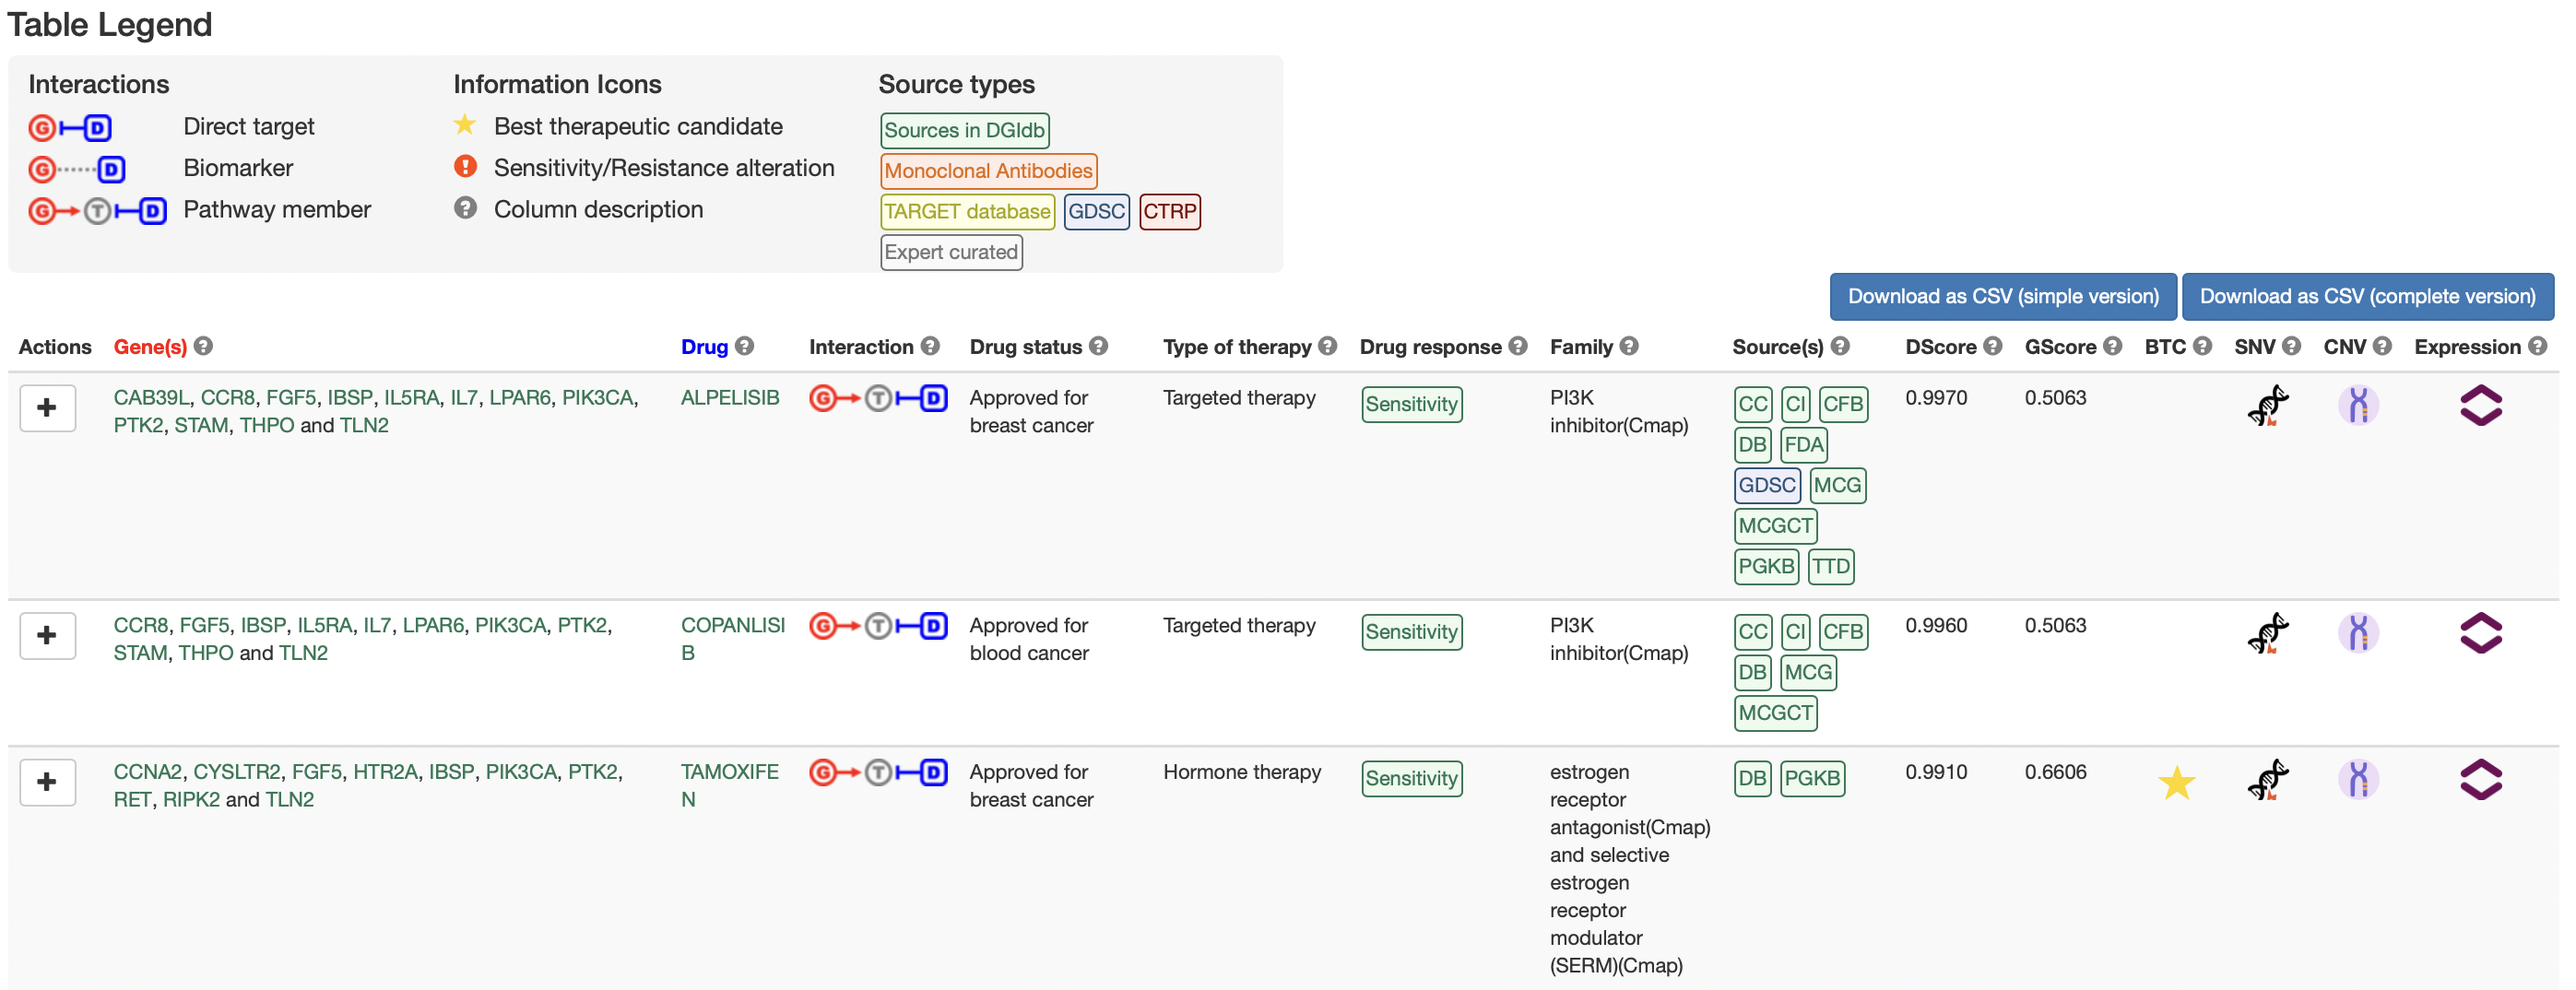
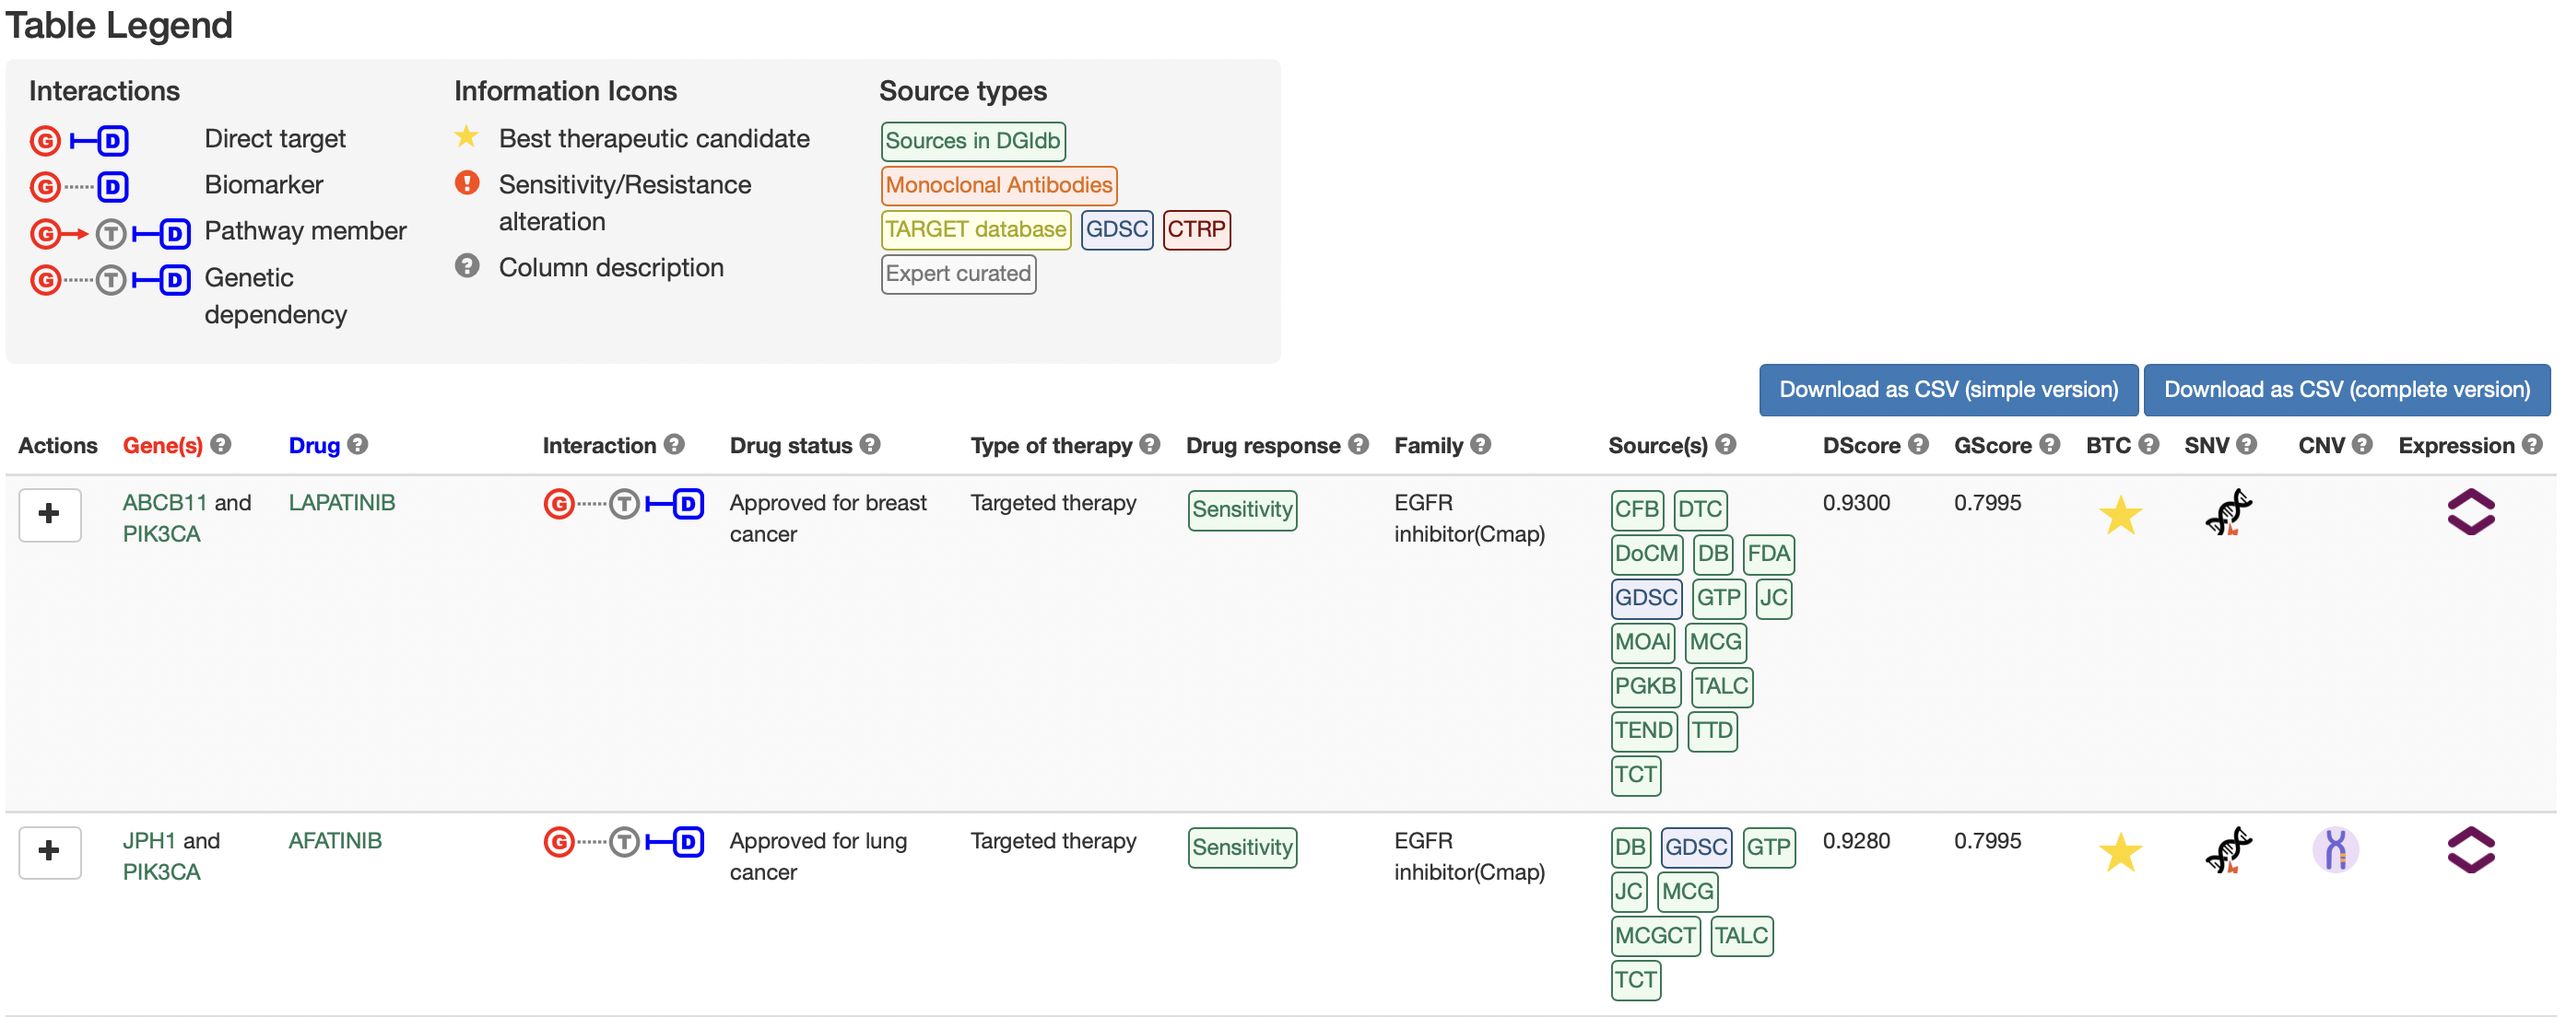
Update multi-omics with VCF

Changed region(s): [[0.0, 0.0, 1.0, 1.0], [0.0, 0.6145, 0.5625, 0.676], [0.875, 0.6145, 0.9688, 0.676]]

diff --git a/app/help/help.md b/app/help/help.md
@@ -646,55 +646,53 @@ If we expand everolimus row by clicking on the <img src="plus.png" alt="Expand I
 
 #### 6.6.2 Multi-omics Analysis with VCF<a name="examples-multi-omics-query-w-vcf"></a>
 
-[Load example for a breast invasive carcinoma patient from the TCGA.](#!/query?tab=multiomics)
+[Load example for a breast invasive ductal carcinoma patient from the TCGA.](#!/query?tab=multiomics)
 
-The VCF contains patient's somatic variants without any germline alteration, so in this example we cannot select <span style="color:#50AC50">**PharmCAT analysis**</span>.
+The VCF contains the patient's somatic variants without any germline alteration, so we cannot select <span style="color:#50AC50">**PharmCAT analysis**</span>.
 
-**Important: If you are logged in**, you will be able to select any of the VCFs that you have previously annotated. These **annotations are stored** in your personal account **up to 6 months**, so they can be queried many times. **If you are a guest user**, you can do this type of analysis **right after a [Small Variants Query](#!/help#vcf-query) with the VCF** of interest.
+**Important: If you are logged in**, you will be able to select any of the VCFs that you have previously annotated. These **annotations are stored** in your account **for up to 6 months**, so they can be queried many times. **If you are a guest user**, you can do this type of analysis **right after a [small variants query](#!/help#vcf-query) with the VCF** of interest.
 
 For the sake of this example, we will run this analysis from scratch.
 
-First, go to the Small Variants Query tab and load the VCF as indicated in section [Small Variants Analysis without PharmCAT](#!/help#examples-vcf-query-no-pharmcat). Please, **do not** click on <span style="color:#50AC50">**PharmCAT analysis**</span>.
+First, go to the small variants query tab and load the VCF as indicated in the section [Small Variants Analysis without PharmCAT](#!/help#examples-vcf-query-no-pharmcat). Please, **do not** click on <span style="color:#50AC50">**PharmCAT analysis**</span>.
+
+<div style="text-align: left;"><img src="vcf-query-example-input-01.png" alt="Multi-omics Query with VCF Input 1" height="20%" width="20%"/>
 
 <!-- Update image -->
-<div style="text-align: left;"><img src="vcf-query-example-input-01.png" alt="Multi-omics Query with VCF Input 1" height="40%" width="40%"/>
+<div style="text-align: left;"><img src="vcf-query-example-input-02.png" alt="Multi-omics Query with VCF Input 2" height="40%" width="40%"/>
 
-<div style="text-align: left;"><img src="vcf-query-example-input-02.png" alt="Multi-omics Query with VCF Input 2" height="100%" width="100%"/>
+Once the progress bar is complete, return to the multi-omics query tab.
 
-Once the progress bar is complete, return to the Multi-omics Query tab.
+Then, click on <span style="color:#50AC50">**With variant analysis**</span> and select the VCF you just annotated from the list. Also, upload both the example CNV .tsv and expression .rnk files. Keep in mind that you can choose just one of them, but we want to show you what a complete multi-omics analysis looks like.
 
-Then, click on <span style="color:#50AC50">**With variant analysis**</span> and select the VCF you just annotated from the list. Also, upload both the example CNV and expression RNK files. Keep in mind that you can choose just one of them, but we want to show you how a complete Multi-omics Analysis looks like.
+<div style="text-align: left;"><img src="multi-omics-query-example-input-02.png" alt="Multi-omics Query with VCF Input 3" height="40%" width="40%"/>
 
-<div style="text-align: left;"><img src="multi-omics-query-example-input-02.png" alt="Multi-omics Query with VCF Input 3" height="100%" width="100%"/>
-
-Finally, do not modify any of the <span style="color:#50AC50">**Analysis Options**</span> and click on the <span style="color:#50AC50">**Query**</span> button.
+Finally, **do not** modify any of the <span style="color:#50AC50">**Analysis Options**</span> and click on the <span style="color:#50AC50">**Query**</span> button.
 
 <u>**Output Interpretation**</u>
 
-In the results page, you will see a summary box with the execution details, some plots and a summary table with the drug ranking (see [Gene Names, Gene Ranking, CNVs, Small Variants and Multi-omics Query Output](#!/help#genes-gene-rank-cnvs-vcf-and-multi-omics-query-output) section for further details).
+On the results page, you will see a summary box with the execution details, some plots and a summary table with the drug ranking (see [Gene Names, Gene Ranking, CNVs, Small Variants and Multi-omics Query Output](#!/help#genes-gene-rank-cnvs-vcf-and-multi-omics-query-output) section for further details).
 
-These results can be interpreted as the ones obtained after a gene names query, but keep in mind that the GScores have been computed in two ways:
+These results can be interpreted as the ones obtained after a [gene names analysis](#!/help#examples-genes-query), but keep in mind that the GScores have been computed in two ways:
 
-- For the genes in the CNV file or the Highly Overexpressed <!--Oncogenes-->Genes found in the RNK file, the GScores are the pre-computed ones. These scores have been calculated according to gene essentiality, tumor vulnerability, relevance of the gene in cancer and its druggability level.
+- For the genes in the CNV file, the GScores are the pre-computed ones. These scores have been calculated according to gene essentiality, tumor vulnerability, relevance of the gene in cancer and its druggability level.
 
 - For the somatic variants found in the VCF, the GScores also take into account the biological impact, the frequency and the clinical implications of these variants.
 
-If a gene is found in the VCF and any other input file, the GScore computed from VScores has priority over the pre-computed GScore.
+If a gene has small variants and CNVs, the GScore computed from VScores has priority over the other GScore.
 
-PanDrugs finds several Best Therapeutic Candidates <img src="btc.png" alt="Best Therapeutic Candidate" height="20" width="20" style="vertical-align:middle;"/> based on small variant, CNV and expression evidences. Tamoxifen is, again, the drug with highest combined DScore and GScore (DScore = 0.9910; GScore = 0.6606).
+PanDrugs finds several BTCs <img src="btc.png" alt="Best Therapeutic Candidate" height="20" width="20" style="vertical-align:middle;"/> based on small variant, CNV and expression evidences. Afatinib is the drug with highest combined DScore and GScore (DScore = 0.9280; GScore = 0.7995) according to the 3 evidence sources.
 
-<div style="text-align: left;"><img src="multi-omics-query-output-03.png" alt="Multi-omics Query without VCF Summary Table Collapsed" height="100%" width="100%"/>
+<div style="text-align: left;"><img src="multi-omics-query-output-03.png" alt="Multi-omics Query without VCF Summary Table Collapsed" height="60%" width="60%"/>
 
-If we expand Tamoxifen row by clicking on the <img src="plus.png" alt="Expand Icon" height="18" width="20" style="vertical-align:middle;"/>, we will get futher information about the type of gene alterations that are contributing to PanDrugs ranking:
+If we expand afatinib row by clicking on the <img src="plus.png" alt="Expand Icon" height="18" width="20" style="vertical-align:middle;"/>, we will get further information about the type of gene alterations that are contributing to PanDrugs ranking:
 
-  - A deletion in *CYSLTR2*.
-  - A mutation in *PIK3CA*.
-  - A highly overexpressed gene such as *CCNA2*, which is a biomarker of the response to Tamoxifen.
+  - A mutation in *PIK3CA* leads to high overexpression of this gene.
+  - An amplification in *JPH1* also leads to high overexpression of this gene.
 
-<!-- Update image -->
-<div style="text-align: left;"><img src="multi-omics-query-output-04.png" alt="Multi-omics Query without VCF Summary Table Expanded" height="100%" width="100%"/>
+<div style="text-align: left;"><img src="multi-omics-query-output-04.png" alt="Multi-omics Query without VCF Summary Table Expanded" height="60%" width="60%"/>
 
-Please note that the GScore for Tamoxifen did not change when adding the VCF because the gene that is driving this score is *CYSLTR2*, which has a CNV. However, the DScore increased because there were more input genes associated to the drug.
+If we search for everolimus, we will notice that its entry is not at the top of the list. Indeed, there are a handfull of drugs that appear before everolimus because we included the patient's somatic variants and *PIK3CA* mutation drives higher GScores and DScores. This results, when compared to the ones obtained without a VCF, highlight the advantages of a full combined multi-omics analysis. 
 
 <!-- 
 ## 7. Database versions for VCF annotation <a name="database-versions-for-vcf-annotation"></a>
